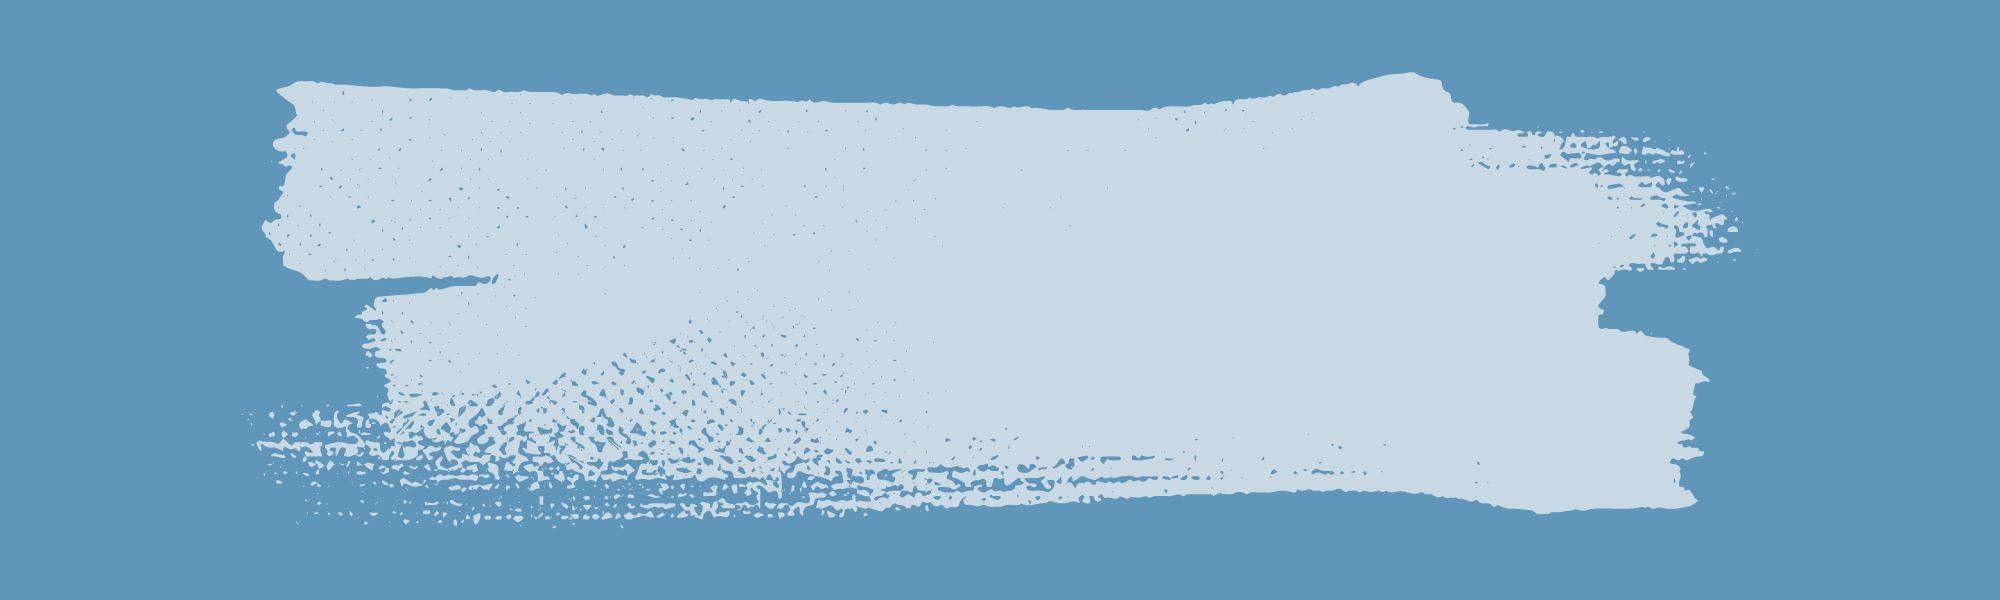
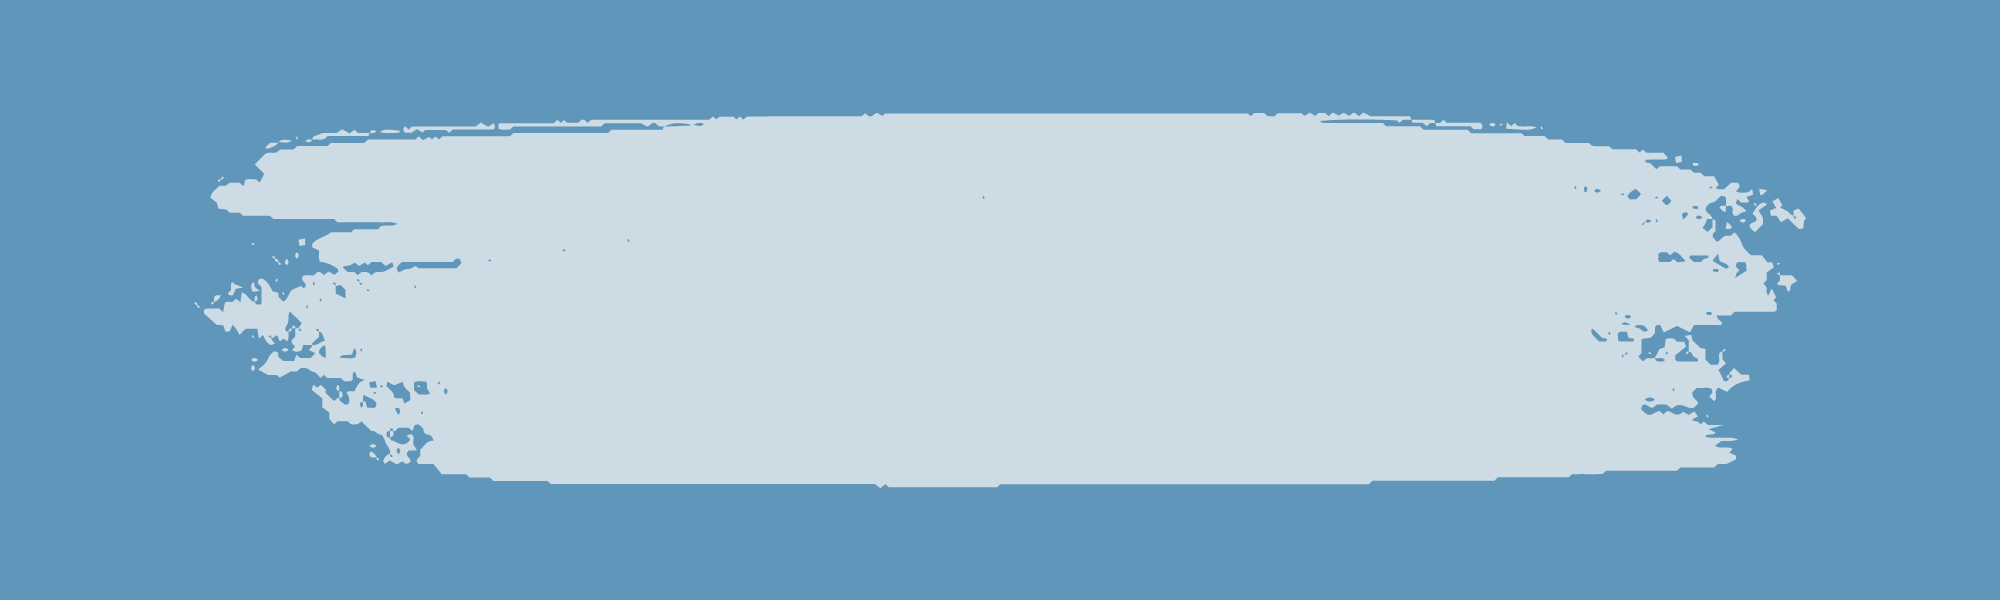
Upload tempoary photo and still working on layout

Changed region(s): [[0.093, 0.12, 0.899, 0.87]]

diff --git a/index.html b/index.html
@@ -33,10 +33,11 @@
 
         <div class="container">
             <div id="aboutMe">
-            <span id="header-background">
-                <h1>I'm Leischow Vang</h1>
-            </span>
-            <img src="#" id="intro-img" alt="Headshot of Leischow Vang">
+            <div id="header-background">
+                <img src="images\homepage-banner.png" style="width: 60%;">
+                <h1 id="introduction">I'm Leischow Vang</h1>
+            </div>
+            <img src="images/temporary-headshot.PNG" id="intro-img" alt="Headshot of Leischow Vang">
             <h4>Web Developer | Web Designer</h4>
             <p>Hello, I&#39;m Leischow Vang! 
                 I&#39;m a recent web software development graduate seeking an entry-level web developer position to hone my skills and make a difference! 

diff --git a/stylesheets/main.css b/stylesheets/main.css
@@ -101,6 +101,7 @@ li.nav-item a {
 /*Body*/
 body {
     background-color: #6096BA;
+    width: 100%;
 }
 /*Back To Top Button*/
 #topBtn {
@@ -139,8 +140,17 @@ body {
 }
 
 #header-background {
-    background-image: ;
+    position: relative;
+    text-align: center;
 }
+
+#introduction {
+    position: absolute;
+    top: 35%;
+    left: 50%;
+    transform: translate(-50%, -50%);
+}
+
 /*My projects*/
 #projects {
     display: flex;
